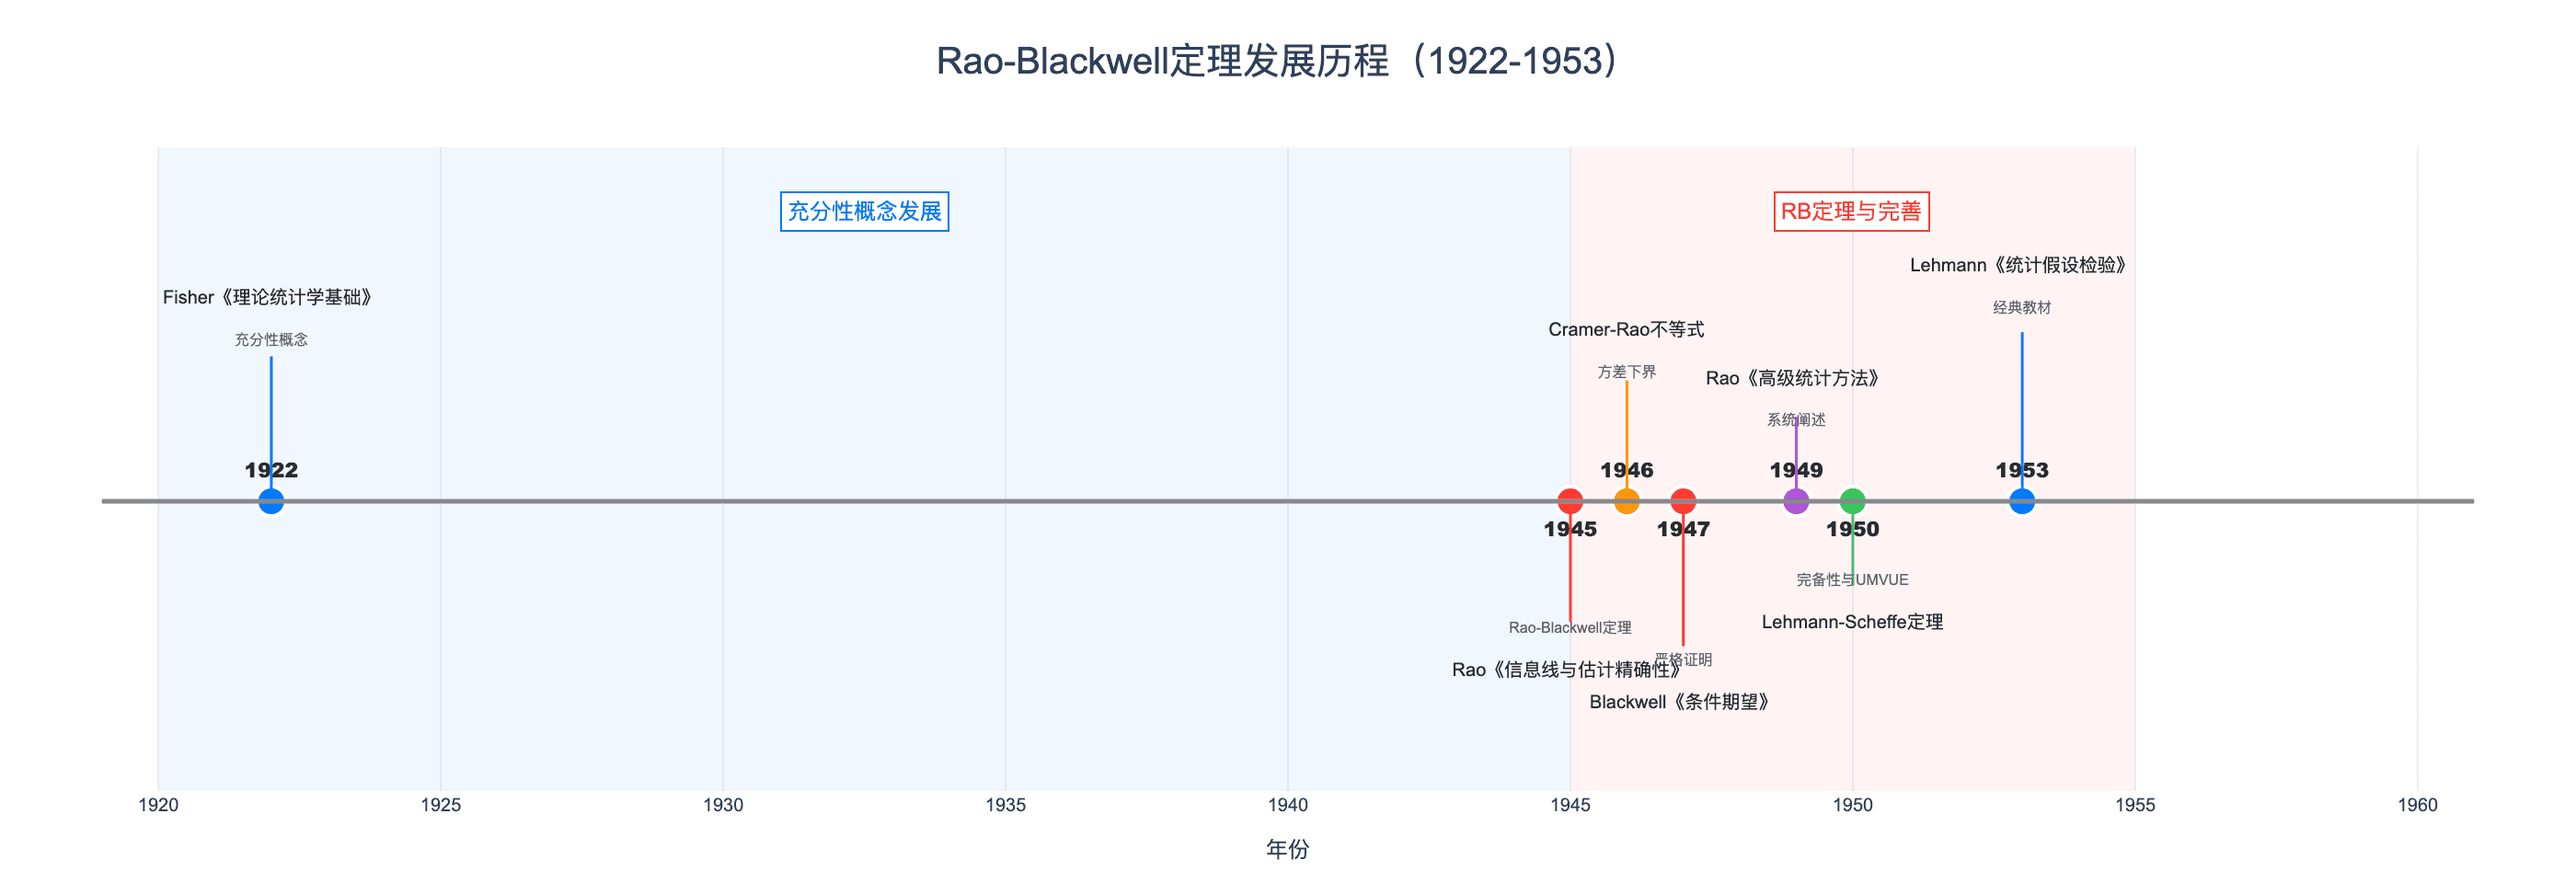
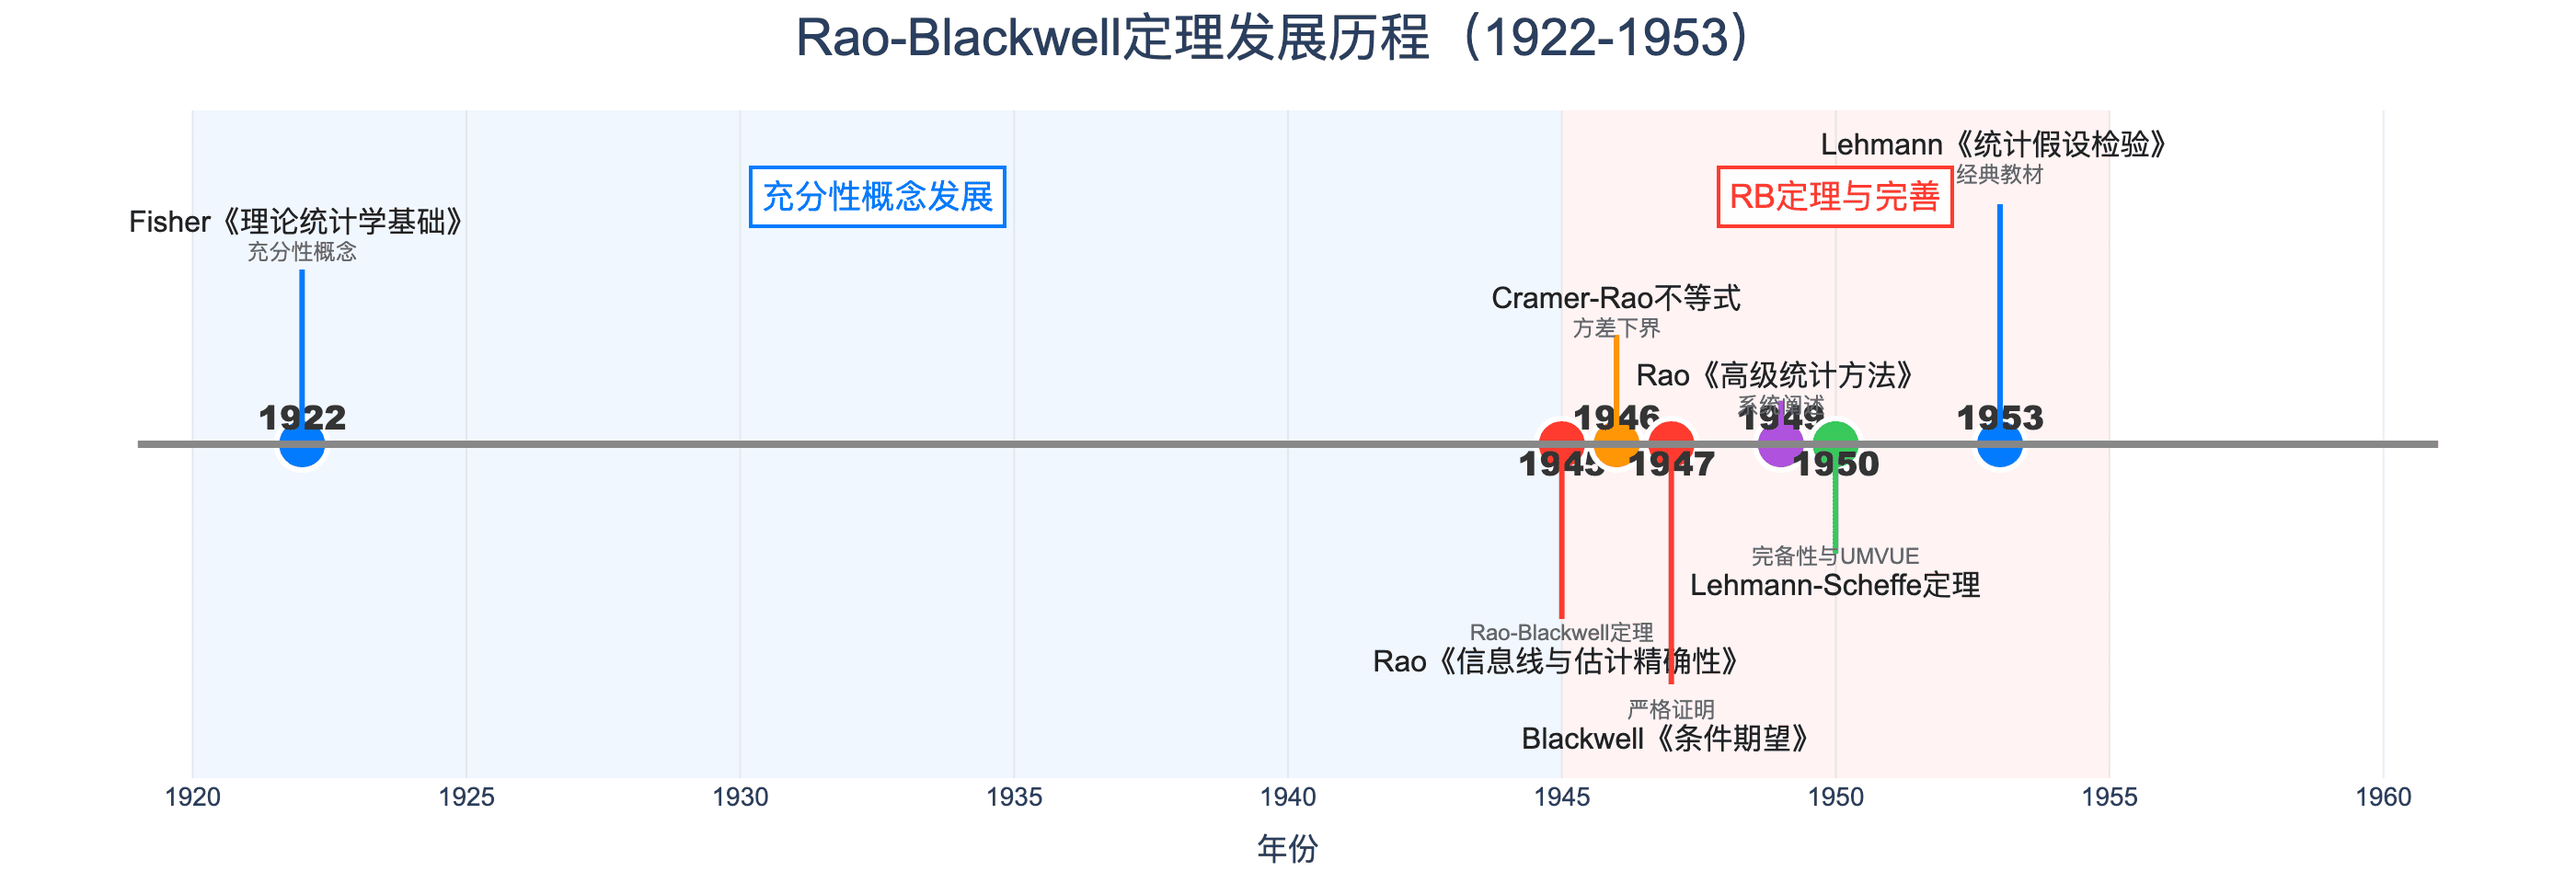
Update content

diff --git a/scripts/plots/generate_rao_blackwell_plots.py b/scripts/plots/generate_rao_blackwell_plots.py
@@ -783,8 +783,10 @@ def plot_history():
     # 时间线占满整个宽度
     x_min, x_max = 1920, 1960
     
-    # 分配y位置避免重叠：远离开来点，交错分布
-    y_positions = [1.2, -1.0, 1.0, -1.2, 0.7, -0.7, 1.4]  # 自定义分布
+    # 分配y位置避免重叠：远离开来点，交错分布，最大化填充画布
+    # 1945,1946,1947,1949,1950密集区域需要充分分散
+    # 顺序对应：1922, 1945, 1946, 1947, 1950, 1949, 1953
+    y_positions = [4.0, -4.0, 2.5, -5.5, 1.0, -2.5, 5.5]  # 充分分散密集区域
     
     for i, (year, event, desc, color) in enumerate(events):
         y_pos = y_positions[i]
@@ -795,7 +797,7 @@ def plot_history():
             x=[year],
             y=[0],
             mode='markers',
-            marker=dict(size=16, color=color, line=dict(color='white', width=2)),
+            marker=dict(size=28, color=color, line=dict(color='white', width=3)),
             showlegend=False,
             hoverinfo='text',
             hovertext=f'{year}: {event}'
@@ -808,16 +810,16 @@ def plot_history():
             mode='text',
             text=[str(year)],
             textposition='top center' if y_offset > 0 else 'bottom center',
-            textfont=dict(size=11, color='#333', family='Arial Black'),
+            textfont=dict(size=18, color='#333', family='Arial Black'),
             showlegend=False
         ))
         
         # 连接线
         fig.add_trace(go.Scatter(
             x=[year, year],
-            y=[0.05 if y_offset > 0 else -0.05, y_pos * 0.75],
+            y=[0.1 if y_offset > 0 else -0.1, y_pos * 0.85],
             mode='lines',
-            line=dict(color=color, width=1.5),
+            line=dict(color=color, width=3),
             showlegend=False
         ))
         
@@ -840,18 +842,18 @@ def plot_history():
             mode='text',
             text=[short_event],
             textposition='top center' if y_offset > 0 else 'bottom center',
-            textfont=dict(size=10, color='#222', family='Arial'),
+            textfont=dict(size=16, color='#222', family='Arial'),
             showlegend=False
         ))
         
         # 描述
         fig.add_trace(go.Scatter(
             x=[year],
-            y=[y_pos - 0.25 if y_offset > 0 else y_pos + 0.25],
+            y=[y_pos - 0.5 if y_offset > 0 else y_pos + 0.5],
             mode='text',
             text=[desc],
             textposition='top center' if y_offset > 0 else 'bottom center',
-            textfont=dict(size=8, color='#666'),
+            textfont=dict(size=12, color='#666'),
             showlegend=False
         ))
     
@@ -860,7 +862,7 @@ def plot_history():
         x=[x_min - 1, x_max + 1],
         y=[0, 0],
         mode='lines',
-        line=dict(color='#888', width=2.5),
+        line=dict(color='#888', width=4),
         showlegend=False
     ))
     
@@ -881,35 +883,35 @@ def plot_history():
     
     # 阶段标签
     fig.add_annotation(
-        x=1932.5, y=1.8,
+        x=1932.5, y=4.8,
         text='充分性概念发展',
         showarrow=False,
-        font=dict(size=12, color='#007AFF'),
+        font=dict(size=18, color='#007AFF'),
         bgcolor='rgba(255,255,255,0.9)',
         bordercolor='#007AFF',
-        borderwidth=1,
-        borderpad=3
+        borderwidth=2,
+        borderpad=5
     )
     
     fig.add_annotation(
-        x=1950, y=1.8,
+        x=1950, y=4.8,
         text='RB定理与完善',
         showarrow=False,
-        font=dict(size=12, color='#FF3B30'),
+        font=dict(size=18, color='#FF3B30'),
         bgcolor='rgba(255,255,255,0.9)',
         bordercolor='#FF3B30',
-        borderwidth=1,
-        borderpad=3
+        borderwidth=2,
+        borderpad=5
     )
     
     fig.update_layout(
         template='plotly_white',
-        font=dict(family='Arial, sans-serif', size=10),
+        font=dict(family='Arial, sans-serif', size=14),
         width=1400,
         height=480,
         title=dict(
             text='Rao-Blackwell定理发展历程（1922-1953）',
-            font=dict(size=20, family='Arial'),
+            font=dict(size=28, family='Arial'),
             x=0.5
         ),
         xaxis=dict(
@@ -926,9 +928,9 @@ def plot_history():
             showgrid=False,
             showticklabels=False,
             zeroline=False,
-            range=[-1.8, 2.2]
+            range=[-6.5, 6.5]
         ),
-        margin=dict(l=40, r=40, t=80, b=50),
+        margin=dict(l=60, r=60, t=60, b=40),
         paper_bgcolor='white',
         plot_bgcolor='white'
     )
